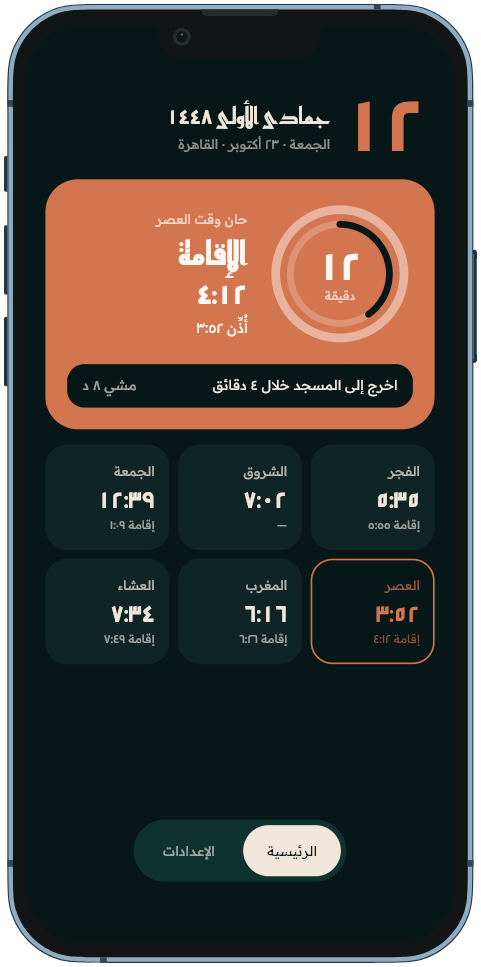
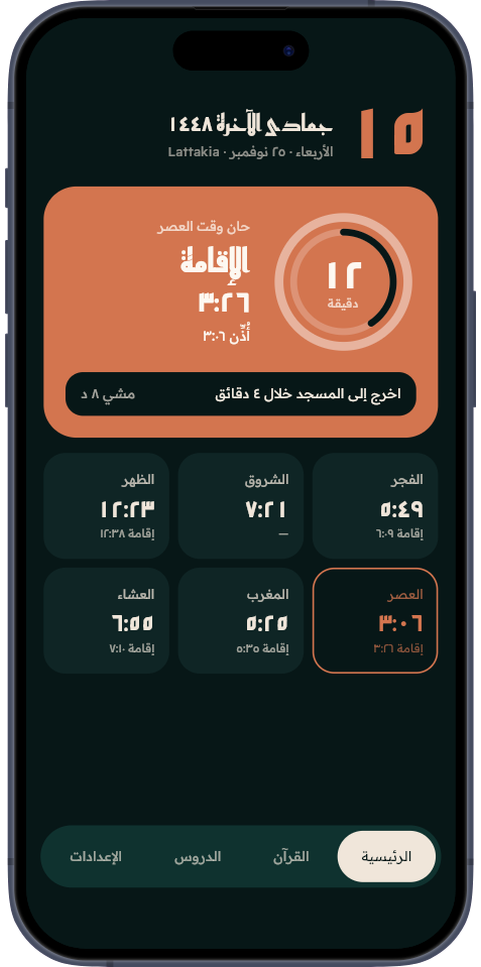
Update download page to v3.0.0 with new screenshots and Explain images

diff --git a/index.html b/index.html
@@ -379,12 +379,12 @@
       </ul>
 
       <div class="cta">
-        <a class="btn" href="https://github.com/abed232822-stack/Jamaah/releases/download/v2.0.0/Jamaah-v2.0.0-arm64-v8a-release.apk" download>
+        <a class="btn" href="https://github.com/abed232822-stack/Jamaah/releases/download/v3.0.0/Jamaah-v3.0.0-arm64-v8a-release.apk" download>
           <svg viewBox="0 0 24 24" fill="none" stroke="currentColor" stroke-width="2" stroke-linecap="round" stroke-linejoin="round" aria-hidden="true"><path d="M12 3v12"/><path d="m7 11 5 5 5-5"/><path d="M5 20h14"/></svg>
           <span data-i18n="btn">حمّل التطبيق</span>
         </a>
         <p class="meta" data-i18n="vpn">ملاحظة: قد يحتاج التحميل إلى VPN داخل سوريا.</p>
-        <p class="hint" data-i18n="meta">لأجهزة أندرويد فقط، الإصدار 2.0.0، حجمه 27 ميغابايت</p>
+        <p class="hint" data-i18n="meta">لأجهزة أندرويد فقط، الإصدار 3.0.0، حجمه 46 ميغابايت</p>
         <p class="hint" data-i18n="hint">بعد التحميل افتح الملف واسمح بالتثبيت من هذا المصدر.</p>
       </div>
     </div>
@@ -430,7 +430,7 @@
       f3: "المواقيت محفوظة على جهازك",
       f4: "بلا أي نوع من الإعلانات",
       btn: "حمّل التطبيق",
-      meta: "لأجهزة أندرويد فقط، الإصدار 2.0.0، حجمه 27 ميغابايت",
+      meta: "لأجهزة أندرويد فقط، الإصدار 3.0.0، حجمه 46 ميغابايت",
       hint: "بعد التحميل افتح الملف واسمح بالتثبيت من هذا المصدر.",
       vpn: "ملاحظة: قد يحتاج التحميل إلى VPN داخل سوريا.",
       toggle: "English",
@@ -447,7 +447,8 @@
       homp: "كل ما تحتاجه لمعرفة الصلاة القادمة في نظرة واحدة.",
       hom1: "بطاقة الصلاة القادمة: اسمها ووقت الأذان والإقامة، وحلقة تعدّ لك الدقائق المتبقية.",
       hom2: "أوقات صلوات اليوم، وتحت كل وقت موعد الإقامة. الصلاة القادمة محاطة بإطار.",
-      hom3: "تنقّل بين الرئيسية والدروس والإعدادات من هنا.",
+      hom3: "الأذكار: أقسام الأذكار اليومية، والقسم المناسب لوقتك عليه علامة «الآن». اضغط «عرض الكل» لترى باقي الأقسام.",
+      hom4: "تنقّل بين الرئيسية والقرآن والدروس والإعدادات من هنا.",
       iqn: "العدّ التنازلي", iqt: "العدّ التنازلي للإقامة وتنبيه الخروج",
       iqp: "بعد الأذان تتحول البطاقة إلى عدٍّ تنازلي حتى الإقامة.",
       iq1: "وقت الأذان ووقت الإقامة للصلاة الحالية.",
@@ -470,6 +471,45 @@
       les5: "الأيام التي يتكرر فيها الدرس كل أسبوع.",
       les6: "وقت محدد، أو بعد صلاة معيّنة.",
       les7: "تذكير قبل الدرس بالمدة التي تختارها.",
+      qurn: "القرآن", qurt: "تبويب القرآن",
+      qurp: "المصحف كاملًا بلا إنترنت، ووردك اليومي في أعلى الصفحة.",
+      qur1: "ابحث عن سورة بالاسم أو بالرقم.",
+      qur2: "بطاقة وردك: الجزء التالي الذي تقرؤه وكم أنهيت اليوم. اضغط «اقرأ» لتبدأ، أو اضغط عنوان البطاقة لتعدّل الورد.",
+      qur3: "قائمة السور، وتحت كل سورة مكان نزولها وعدد آياتها ورقم صفحتها. اضغط سورة لتفتحها.",
+      rdrn: "القراءة", rdrt: "قراءة المصحف",
+      rdrp: "صفحات المصحف بخط الحفص العثماني. اسحب لتقلب الصفحة.",
+      rdr1: "«السور» تعيدك إلى قائمة السور.",
+      rdr2: "اسم السورة ورقم الصفحة.",
+      rdr3: "دليل رموز الوقف والنطق في المصحف.",
+      rdr4: "صفحة المصحف. اضغط أي آية لتفتح تفسيرها.",
+      tafn: "التفسير", taft: "تفسير الآية",
+      tafp: "اضغط آية في الصفحة لتظهر لك ورقة التفسير من أسفل الشاشة.",
+      taf1: "الآية التي اخترتها، وتبقى ملوّنة في الصفحة خلف الورقة.",
+      taf2: "اختر المصدر: المفردات، أو تفسير ابن كثير، أو تفسير الطبري.",
+      taf3: "الشرح بحسب المصدر المختار. في «المفردات» ترى معنى كل كلمة غريبة في الآية.",
+      taf4: "«حفظ كآخر قراءة» يجعل هذه الآية مكان استئنافك في المرة القادمة.",
+      mrkn: "الرموز", mrkt: "دليل رموز المصحف",
+      mrkp: "اضغط زر الكتاب في أعلى القراءة لتعرف معنى كل علامة تراها في الصفحة.",
+      mrk1: "اختر نوع الرموز: الوقف، أو النطق، أو المصحف.",
+      mrk2: "كل رمز مع اسمه وحكمه ومثال عليه من القرآن.",
+      wrdn: "الورد", wrdt: "إنشاء ورد جديد",
+      wrdp: "حدّد كم تقرأ كل يوم، ويقسّمه التطبيق ويذكّرك به ويحسب سلسلة أيامك.",
+      wrd1: "اختر الطريقة: «بعد كل صلاة» يقسّم الورد على الصلوات الخمس، و«على مدار اليوم» جزء واحد بتذكير واحد.",
+      wrd2: "عدد الصفحات كل يوم، والسورة التي تبدأ منها، وتحتها كم يومًا تحتاج لتختم القرآن.",
+      wrd3: "كم دقيقة بعد الإقامة يصلك التذكير.",
+      wrd4: "«ابدأ الورد» يحفظ خطتك. ويبدأ يومك الجديد بعد الفجر، وما فاتك يُرحَّل إلى اليوم التالي.",
+      adkn: "الأذكار", adkt: "الأذكار",
+      adkp: "الأذكار اليومية مجموعة في ستة أقسام، تجدها في الرئيسية أو من «كل الأذكار».",
+      adk1: "أذكار الصباح والمساء وبعد الصلاة والنوم والاستيقاظ والمسجد.",
+      adk2: "القسم المناسب لوقتك الآن تظهر عليه علامة «الآن».",
+      adk3: "«المزيد من الأذكار» لباقي الأبواب والفصول.",
+      adrn: "قراءة الذكر", adrt: "قراءة الأذكار والعدّ",
+      adrp: "اقرأ الذكر واضغط عليه لتعدّ تكراره، وينتقل إلى الذي بعده حين تنتهي.",
+      adr1: "الرجوع إلى كل الأذكار.",
+      adr2: "كل ضغطة على الذكر تنقص العدّاد واحدة.",
+      adr3: "نص الذكر.",
+      adr4: "عدد المرات المطلوبة وما بقي منها.",
+      adr5: "«الفضل والمصدر» يعرض فضل الذكر ومصدره.",
       widn: "الودجت", widt: "ودجت الشاشة الرئيسية",
       widp: "لإضافته اضغط مطولًا على الشاشة الرئيسية، ثم «الودجات» واختر جماعة. وبالضغط عليه يفتح التطبيق.",
       wid1: "التاريخ الهجري والميلادي واسم مدينتك.",
@@ -501,7 +541,7 @@
       f3: "Prayer times saved on your device",
       f4: "No ads of any kind",
       btn: "Download the app",
-      meta: "Android only, version 2.0.0, 27 MB",
+      meta: "Android only, version 3.0.0, 46 MB",
       hint: "After downloading, open the file and allow installing from this source.",
       vpn: "Note: downloading may require a VPN in Syria.",
       toggle: "العربية",
@@ -518,7 +558,8 @@
       homp: "Everything you need to know about the next prayer at a glance.",
       hom1: "The next-prayer card: its name, adhan and iqamah times, and a ring counting the minutes left.",
       hom2: "Today’s prayer times, with the iqamah time under each. The next prayer has an outline.",
-      hom3: "Switch between Home, Lessons and Settings from here.",
+      hom3: "Adhkar: the daily adhkar groups, with the one that fits your time marked “Now”. Tap “View all” to see the rest.",
+      hom4: "Switch between Home, Quran, Lessons and Settings from here.",
       iqn: "Countdown", iqt: "Iqamah countdown and leave alert",
       iqp: "After the adhan the card turns into a countdown to the iqamah.",
       iq1: "The adhan and iqamah times of the current prayer.",
@@ -541,6 +582,45 @@
       les5: "The days the lesson repeats on every week.",
       les6: "A fixed time, or after a chosen prayer.",
       les7: "A reminder before the lesson, as early as you choose.",
+      qurn: "Quran", qurt: "The Quran tab",
+      qurp: "The full Mushaf, offline, with your daily wird at the top.",
+      qur1: "Search for a surah by name or number.",
+      qur2: "Your wird card: the next part to read and how many you finished today. Tap “Read” to start, or tap the card title to edit the wird.",
+      qur3: "The surah list, with where each surah was revealed, its ayah count and its page. Tap one to open it.",
+      rdrn: "Reading", rdrt: "Reading the Mushaf",
+      rdrp: "The Mushaf pages in the Uthmanic Hafs script. Swipe to turn the page.",
+      rdr1: "“Surahs” takes you back to the surah list.",
+      rdr2: "The surah name and the page number.",
+      rdr3: "A guide to the waqf and recitation marks in the Mushaf.",
+      rdr4: "The Mushaf page. Tap any ayah to open its tafsir.",
+      tafn: "Tafsir", taft: "Tafsir of an ayah",
+      tafp: "Tap an ayah on the page and the tafsir sheet slides up from the bottom.",
+      taf1: "The ayah you picked. It stays highlighted on the page behind the sheet.",
+      taf2: "Choose the source: word meanings, Ibn Kathir, or Al-Tabari.",
+      taf3: "The explanation from the chosen source. In “Word meanings” you see the meaning of each difficult word in the ayah.",
+      taf4: "“Save as last read” makes this ayah the place you resume from next time.",
+      mrkn: "Marks", mrkt: "Guide to the Mushaf marks",
+      mrkp: "Tap the book button at the top of the reader to learn what each mark on the page means.",
+      mrk1: "Choose the kind of marks: waqf (stopping), pronunciation, or the Mushaf.",
+      mrk2: "Each mark with its name, its ruling and an example from the Quran.",
+      wrdn: "Wird", wrdt: "Set up a new wird",
+      wrdp: "Choose how much you read each day. The app splits it, reminds you and keeps your streak.",
+      wrd1: "Pick the mode: “After every prayer” splits the wird over the five prayers, “All day” is one part with one reminder.",
+      wrd2: "Pages per day, the surah to start from, and how many days you need to finish the Quran.",
+      wrd3: "How many minutes after the iqamah the reminder arrives.",
+      wrd4: "“Start the wird” saves your plan. Your day starts after Fajr, and what you missed carries over to the next day.",
+      adkn: "Adhkar", adkt: "Adhkar",
+      adkp: "The daily adhkar in six groups, on the home screen or under “All adhkar”.",
+      adk1: "Morning, evening, after prayer, sleep, waking and mosque adhkar.",
+      adk2: "The group that fits your time right now is marked “Now”.",
+      adk3: "“More adhkar” for the rest of the categories and chapters.",
+      adrn: "Reading adhkar", adrt: "Reading and counting adhkar",
+      adrp: "Read the dhikr and tap it to count its repeats. It moves on to the next one when you finish.",
+      adr1: "Back to all adhkar.",
+      adr2: "Each tap on the dhikr takes one off the counter.",
+      adr3: "The text of the dhikr.",
+      adr4: "How many times it should be said and how many are left.",
+      adr5: "“Virtue and source” shows the virtue of the dhikr and where it comes from.",
       widn: "Widget", widt: "Home screen widget",
       widp: "To add it, long-press your home screen, open “Widgets” and pick Jama’ah. Tapping it opens the app.",
       wid1: "The Hijri and Gregorian dates and your city.",
@@ -590,10 +670,17 @@
 
   var FEATURES = [
     { k: "loc", imgs: ["location"], n: 3 },
-    { k: "hom", imgs: ["home"], n: 3 },
+    { k: "hom", imgs: ["home"], n: 4 },
     { k: "iq", imgs: ["iqamah"], n: 3 },
     { k: "adj", imgs: ["adjust", "iqamah-times"], n: 6 },
-    { k: "les", imgs: ["lessons", "lesson-form"], n: 7, isNew: true },
+    { k: "qur", imgs: ["quran"], n: 3, isNew: true },
+    { k: "rdr", imgs: ["quran-reader"], n: 4 },
+    { k: "taf", imgs: ["tafsir"], n: 4 },
+    { k: "mrk", imgs: ["marks"], n: 2 },
+    { k: "wrd", imgs: ["wird-form"], n: 4, isNew: true },
+    { k: "adk", imgs: ["adhkar"], n: 3, isNew: true },
+    { k: "adr", imgs: ["adhkar-reader"], n: 5 },
+    { k: "les", imgs: ["lessons", "lesson-form"], n: 7 },
     { k: "wid", imgs: ["widget"], n: 5, w: 900, h: 819, cls: "wide" },
     { k: "set", imgs: ["settings", "settings-more"], n: 6 },
     { k: "met", imgs: ["method"], n: 2 }
